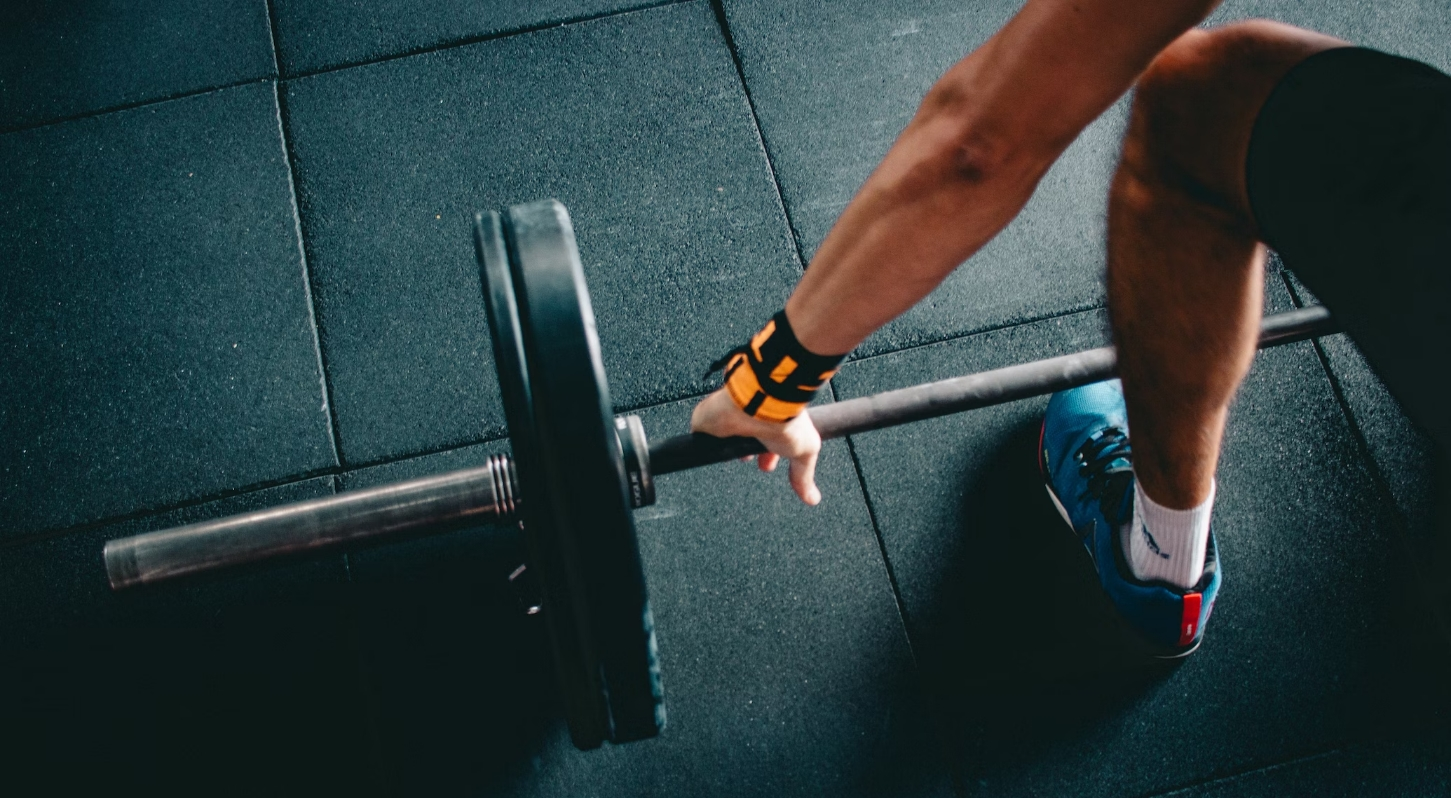
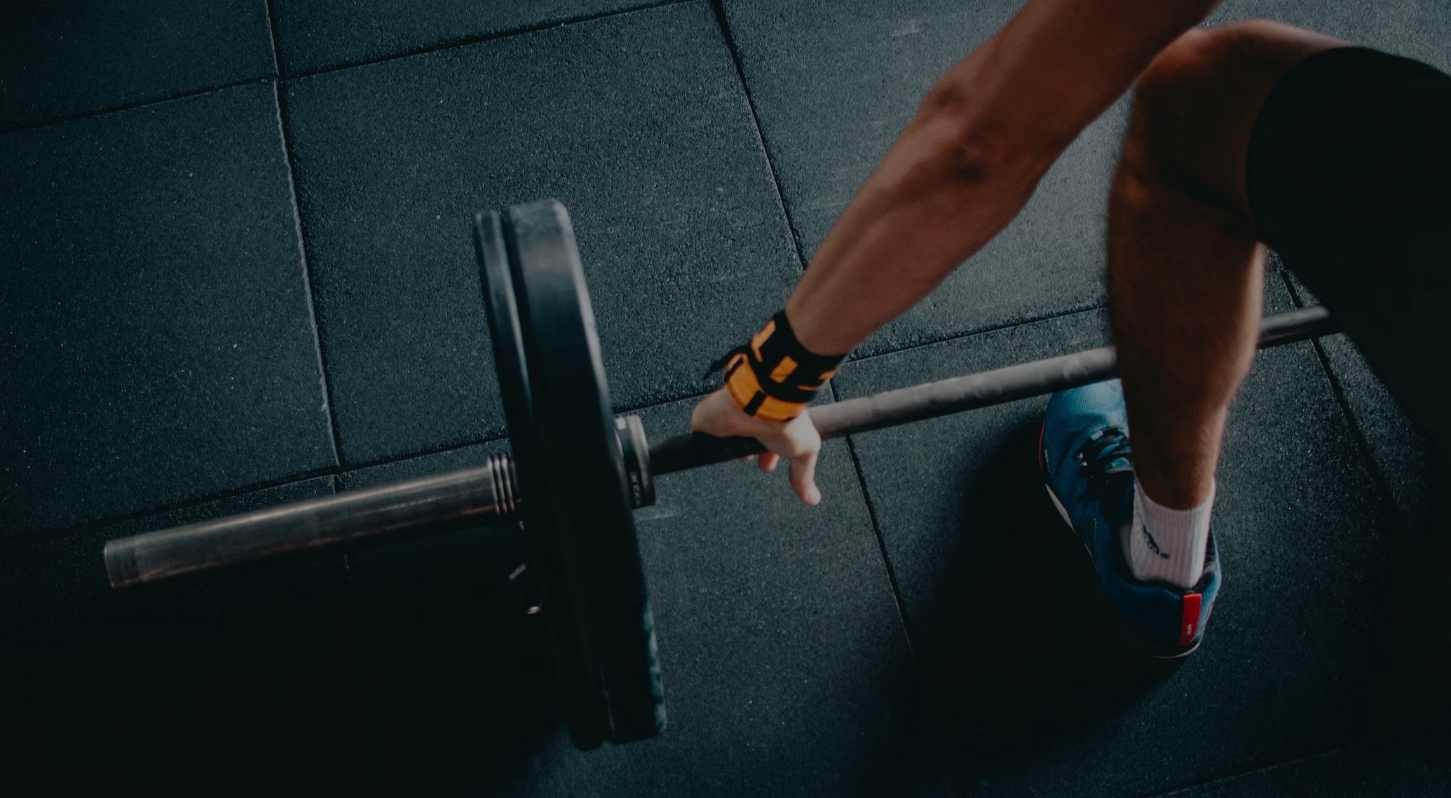
Add hero section

diff --git a/index.html b/index.html
@@ -38,7 +38,6 @@
                         <div class="menu-button__hamburger"></div>
                     </button>
                 </nav>
-                
 
             </div>
         </header>
@@ -48,22 +47,36 @@
             <div class="hero__inner">
 
                 <div class="hero__main">
-
                     <div class="hero__content">
-
+                        <h1 class="hero__title">DIN HÄLSA ÄR VÅRT MÅL<br>
+                            KOM IGÅNG REDAN IDAG!
+                        </h1>
+                        <div class="hero__buttons">
+                            <button class="hero__button">Boka / SCHEMA</button>
+                            <button class="hero__button hero__button--blue">BLI MEDLEM</button>
+                        </div>
                     </div>
-
                 </div>
 
                 <div class="hero__footer">
-
                     <div class="hero__readmore">
-
+                        <svg xmlns="http://www.w3.org/2000/svg" width="19.795" height="29.465" viewBox="0 0 19.795 29.465">
+                            <g id="Group_7" data-name="Group 7" transform="translate(-87.439 -728.096)">
+                              <path id="Line_5" data-name="Line 5" d="M1.5,27.142h-3V0h3Z" transform="translate(97.337 728.096)" fill="#fff"/>
+                              <path id="Line_6" data-name="Line 6" d="M1.061,10.529-1.061,8.407,8.407-1.061l2.121,2.121Z" transform="translate(96.706 747.032)" fill="#fff"/>
+                              <path id="Line_7" data-name="Line 7" d="M8.407,10.529-1.061,1.061,1.061-1.061l9.468,9.468Z" transform="translate(88.5 747.032)" fill="#fff"/>
+                            </g>
+                        </svg>
+                        <span>LÄS MER</span>
                     </div>
                     <div class="social">
-
+                        <svg xmlns="http://www.w3.org/2000/svg" width="20" height="20" viewBox="0 0 20 20">
+                            <path id="Union_3" data-name="Union 3" d="M3407.511,20h-2.177V12.917h2.5L3408.25,10h-2.916V7.916A1.574,1.574,0,0,1,3407,6.25h1.667V3.75a4.747,4.747,0,0,0-2.083-.417c-2.5,0-4.167,1.667-4.167,4.583V10h-2.5v2.917h2.5V20H3392V.023h2.936a3.371,3.371,0,0,1,.4-.023h13.334q.078,0,.155,0V0H3412V3.068h-.01c.007.088.01.176.01.266V20Z" transform="translate(-3392)" fill="#fff"/>
+                        </svg>
+                        <svg xmlns="http://www.w3.org/2000/svg" width="20" height="20" viewBox="0 0 20 20">
+                            <path id="Union_4" data-name="Union 4" d="M3406.595,20v-.016q-.212.015-.427.016h-8.333q-.216,0-.429-.016V20H3392V14.595h.016c-.011-.141-.016-.284-.016-.428V5.834c0-.144,0-.287.016-.429H3392V0h5.405V.015c.141-.01.283-.015.427-.015h8.333c.148,0,.295.006.44.016L3406.595,0H3412l-.01,5.5q.01.163.01.328v8.334c0,.144-.006.287-.016.429H3412V20ZM3396.8,10a5.2,5.2,0,1,0,5.2-5.2A5.206,5.206,0,0,0,3396.8,10Zm10.4-6a.8.8,0,1,0,.8-.8A.8.8,0,0,0,3407.2,4Zm-8.8,6a3.6,3.6,0,1,1,3.6,3.6A3.6,3.6,0,0,1,3398.4,10Z" transform="translate(-3392)" fill="#fff"/>
+                        </svg>
                     </div>
-
                 </div>
 
             </div>

diff --git a/style.css b/style.css
@@ -128,6 +128,10 @@ li {
   list-style: none;
 }
 
+span {
+  font-family: var(--font-sans);
+}
+
 .site-header,
 .hero,
 .promo,
@@ -150,13 +154,14 @@ li {
 
 .site-header {
   min-height: 150px;
+  width: 100%;
   position: fixed;
   z-index: 99;
 }
 .site-header__inner {
   display: flex;
-  justify-content: space-between;
   align-items: center;
+  justify-content: space-between;
 }
 .header-menu {
   display: flex;
@@ -167,6 +172,7 @@ li {
   margin: 0;
   padding: 0;
   display: flex;
+  justify-content: flex-end;
   gap: var(--gap-m);
   font-style: oblique;
   color: var(--color-light);
@@ -205,23 +211,23 @@ li {
 }
 
 .hero {
-  background-color: black;
-  height: 100vh;
+  background: url("src/scss/assets/images/hero-background@2x.jpg");
+  background-size: cover;
+  min-height: 100vh;
 }
 .hero__inner {
-  padding-top: 150px;
   display: grid;
   grid-template-rows: 1fr 100px;
   grid-template-areas: "hero-main" "hero-footer";
 }
 .hero__main {
+  padding-top: 150px;
   grid-area: "hero-main";
-  align-items: center;
   display: flex;
+  align-items: center;
 }
 .hero__footer {
   grid-area: "hero-footer";
-  background-color: red;
   display: flex;
   justify-content: space-between;
   align-items: center;
@@ -229,19 +235,67 @@ li {
 .hero__content {
   max-width: 40rem;
   width: 100%;
-  height: 25rem;
-  background-color: yellow;
+  display: flex;
+  flex-direction: column;
+  gap: var(--gap-xl);
+}
+.hero__title {
+  margin: 0;
+  padding: 0;
+  color: var(--color-light);
+  font-style: oblique;
+  font-weight: 400;
+}
+.hero__buttons {
+  display: flex;
+  gap: 1.5rem;
+}
+.hero__button {
+  background-color: var(--color-secondary);
+  color: var(--color-light);
+  padding: 0.8rem 1.5rem;
+  border: 0;
+  border-radius: 0;
+  transform: skewX(-10deg);
+  font-size: 2rem;
+  font-family: var(--font-sans);
+  display: inline-block;
+  text-decoration: none;
+}
+.hero__button:hover {
+  background-color: var(--color-secondary-700);
+  color: var(--color-light);
+}
+.hero__button--blue {
+  background-color: var(--color-primary);
+  color: var(--color-light);
+  padding: 0.8rem 1.5rem;
+  border: 0;
+  border-radius: 0;
+  transform: skewX(-10deg);
+  font-size: 2rem;
+  font-family: var(--font-sans);
+  display: inline-block;
+  text-decoration: none;
+}
+.hero__button--blue:hover {
+  background-color: var(--color-primary-700);
+  color: var(--color-light);
 }
 .hero__readmore {
-  height: 2rem;
-  width: 5rem;
-  background-color: yellow;
+  display: flex;
+  align-items: center;
+  gap: var(--gap-s);
+}
+.hero__readmore span {
+  font-size: var(--font-size-1);
+  color: var(--color-light);
 }
 
 .social {
-  width: 3rem;
-  height: 2rem;
-  background-color: yellow;
+  display: flex;
+  align-items: center;
+  gap: var(--gap-s);
 }
 
 /*# sourceMappingURL=style.css.map */

diff --git a/src/scss/pages/home/_hero.scss b/src/scss/pages/home/_hero.scss
@@ -1,23 +1,25 @@
+@use '../../components/buttons' as button;
+
 .hero {
-    background-color: black; // temp
-    height: 100vh; // temp
+    background: url("src/scss/assets/images/hero-background@2x.jpg");
+    background-size: cover;
+    min-height: 100vh;
 
     &__inner {
-        padding-top: 150px;
         display: grid;
         grid-template-rows: 1fr 100px;
         grid-template-areas: 'hero-main' 'hero-footer';
     }
 
     &__main {
+        padding-top: 150px;
         grid-area: 'hero-main';
-        align-items: center;
         display: flex;
+        align-items: center;
     }
 
     &__footer {
         grid-area: 'hero-footer';
-        background-color: red; // temp
         display: flex;
         justify-content: space-between;
         align-items: center;
@@ -26,22 +28,49 @@
     &__content {
         max-width: 40rem;
         width: 100%;
-        height: 25rem; //temp
-        background-color: yellow; // temp
+        display: flex;
+        flex-direction: column;
+        gap: var(--gap-xl);
+    }
+
+    &__title {
+        margin: 0;
+        padding: 0;
+        color: var(--color-light);
+        font-style: oblique;
+        font-weight: 400;
+    }
+
+    &__buttons {
+        display: flex;
+        gap: 1.5rem;
+    }
+
+    &__button {
+        @include button.default();
+
+        &--blue  {
+            @include button.default(
+                $background: var(--color-primary),
+                $hover-background: var(--color-primary-700));
+        }
     }
     
     &__readmore {
-        height: 2rem; // temp
-        width: 5rem; // temp
-        background-color: yellow; // temp
+        display: flex;
+        align-items: center;
+        gap: var(--gap-s);
 
+        span {
+            font-size: var(--font-size-1);
+            color: var(--color-light);
+        }
     }
-
 
 }
 
 .social {
-    width: 3rem; // temp
-    height: 2rem; //temp
-    background-color: yellow; // temp
+    display: flex;
+    align-items: center;
+    gap: var(--gap-s);
 }

diff --git a/src/scss/layout/_header.scss b/src/scss/layout/_header.scss
@@ -1,15 +1,17 @@
 .site-header {
-    min-height: 150px; // temp
+    min-height: 150px;
+    width: 100%;
     position: fixed;
     z-index: 99;
-
+    
     &__inner {
         display: flex;
-        justify-content: space-between;
         align-items: center;
+        justify-content: space-between;
     }
 
     &__logo {
+        
     }
 }
 
@@ -22,6 +24,7 @@
         margin: 0;
         padding: 0;
         display: flex;
+        justify-content: flex-end;
         gap: var(--gap-m);
         font-style: oblique;
         color: var(--color-light);

diff --git a/src/scss/components/_buttons.scss b/src/scss/components/_buttons.scss
@@ -5,11 +5,12 @@
     $hover-color: var(--color-light)) {
     background-color: $background;
     color: $color;
-    padding: 1rem 2rem;
+    padding: 0.8rem 1.5rem;
     border: 0;
     border-radius: 0;
+    transform: skewX(-10deg);
     font-size: 2rem;
-    font-weight: 700;
+    font-family: var(--font-sans);
     display: inline-block;
     text-decoration: none;
     &:hover {

diff --git a/src/scss/base/_typography.scss b/src/scss/base/_typography.scss
@@ -38,6 +38,7 @@ p {
 a {
     color: var(--color-dark);
     text-decoration: none;
+    
     &:hover {
         color: var(--color-accent);
     }
@@ -49,4 +50,8 @@ li {
     font-family: var(--font-sans);
     line-height: var(--line-height);
     list-style: none;
+}
+
+span {
+    font-family: var(--font-sans);
 }
